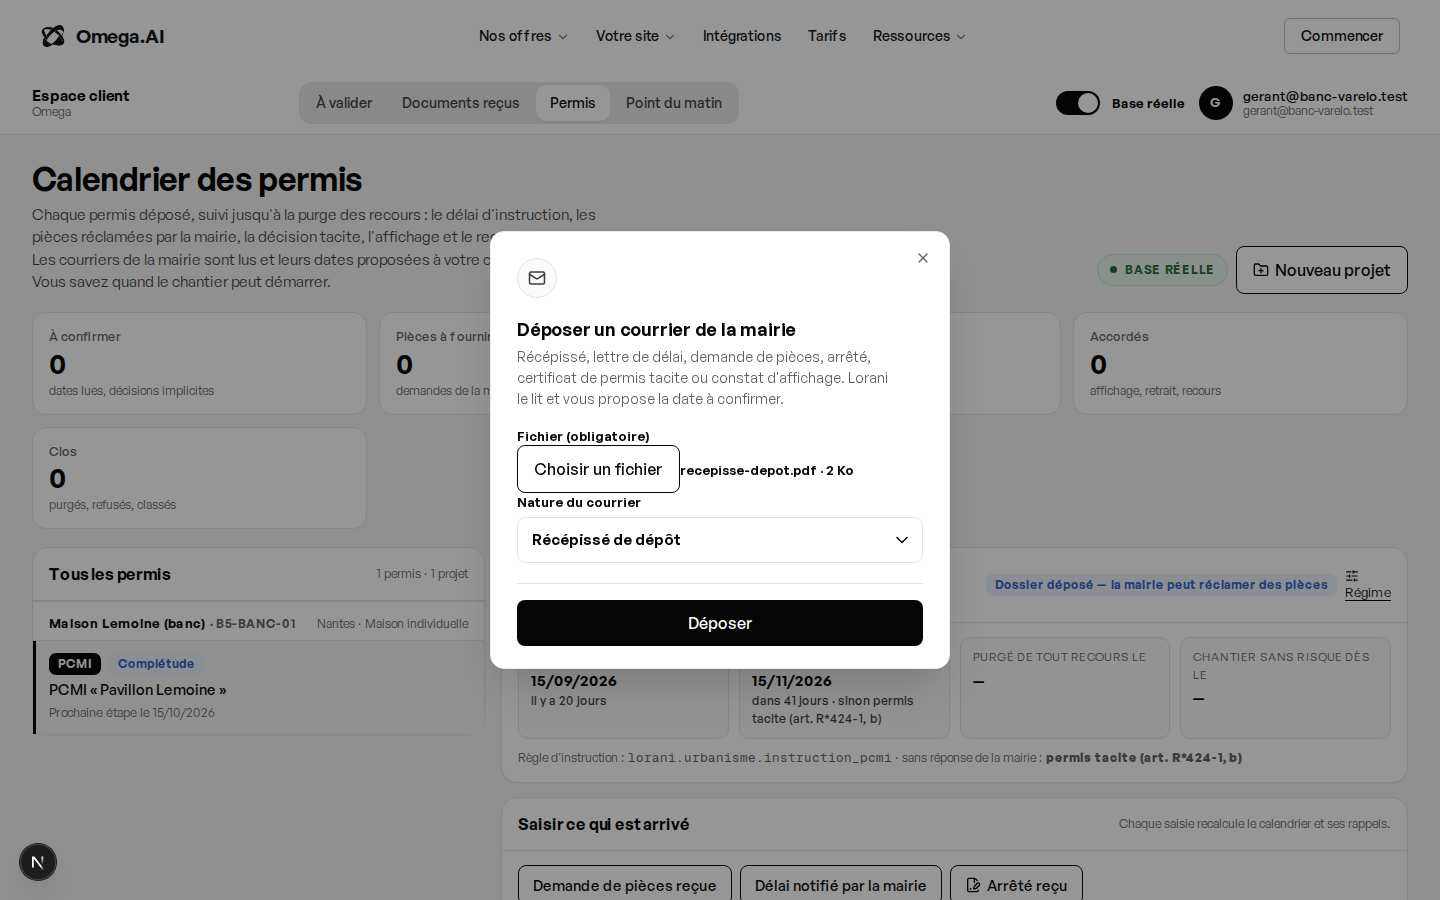
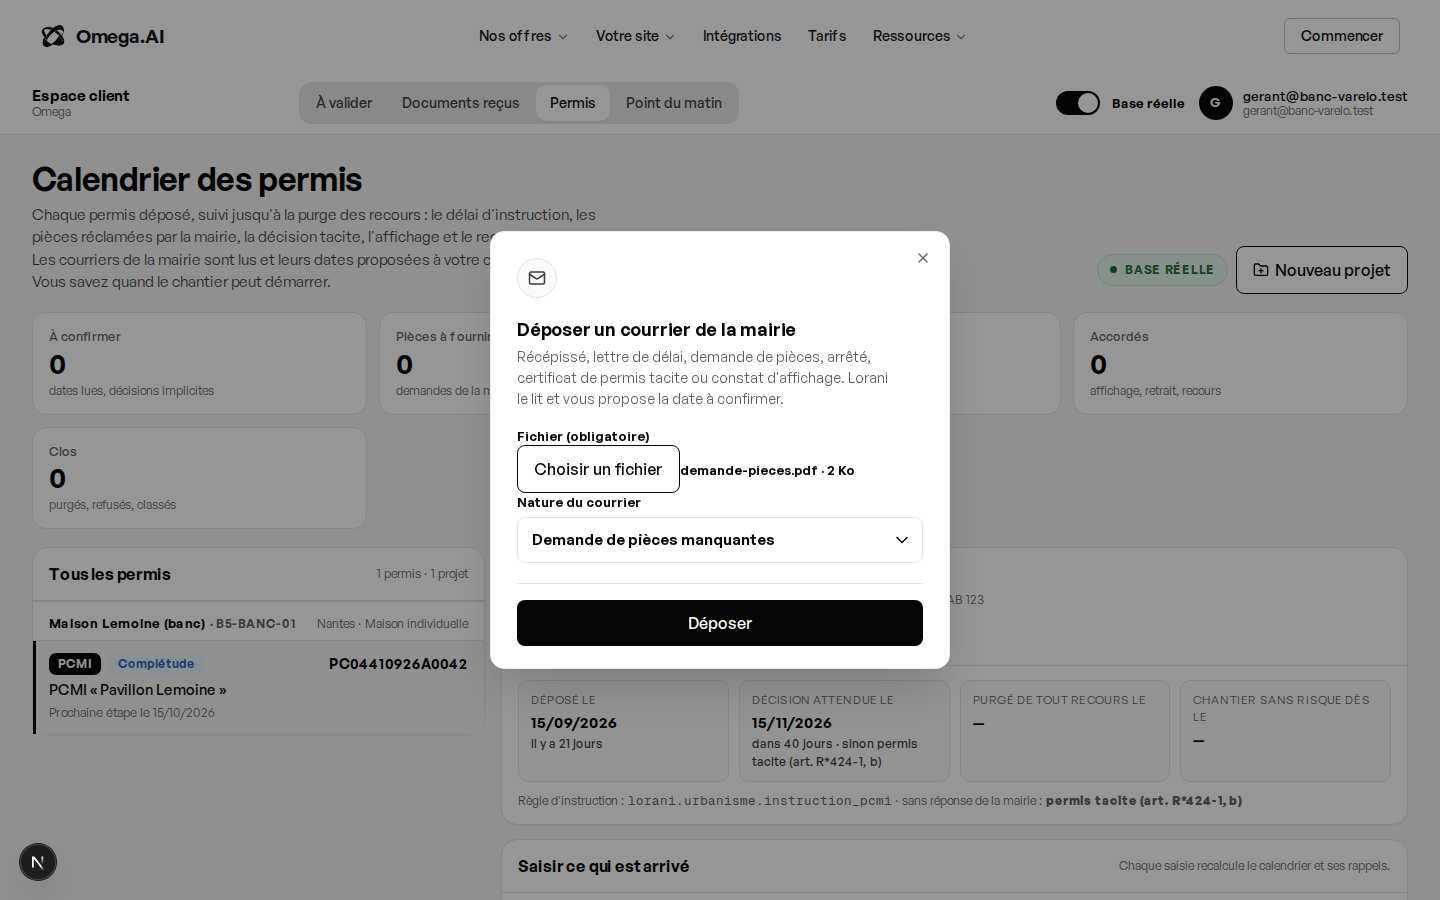
LORANI B5 : dépôt réel rejoué avec le lecteur v14 — récépissé lu et confirmé ; demande de pièces PCMI perdue par le socle → b5_05 (codes PCMI/DPMI), assertion au test, l'écran exige la liste des pièces
Claude-Session: https://claude.ai/code/session_018iNiXjY8eWmMjaGrXSGgma

diff --git a/components/espace/lorani/PermisVue.tsx b/components/espace/lorani/PermisVue.tsx
@@ -45,6 +45,9 @@ type Props = {
   relire: () => Promise<void>;
 };
 
+/* « PCMI 3, PC8 » ou « PCMI 3 PC 8 » → [PCMI3, PC8] : un espace suivi d'un chiffre reste dans le code */
+const decouperCodes = (brut: string) => brut.split(/[,;]+|\s+(?=[A-Za-z])/).map((c) => c.replace(/\s/g, "").toUpperCase()).filter(Boolean);
+
 type Quoi = "pieces_fournies" | "affichage" | "decision" | "delai" | "depot" | "demande_pieces";
 
 type Form =
@@ -161,7 +164,7 @@ export default function PermisVue({ permis: p, projet, dossier, source, peutEcri
     setErreur(null);
     setForm({ type: "confirmer", date: d });
   };
-  const confirmationComplete = form?.type === "confirmer" && NATURES_DATE_LUE[form.date.nature].champs.every((ch) => ch.type === "pieces" || ch.cle === "numero" || ch.cle === "date_notification_delai" || (valeurs[ch.cle] ?? "").trim() !== "") && !!permisVise;
+  const confirmationComplete = form?.type === "confirmer" && NATURES_DATE_LUE[form.date.nature].champs.every((ch) => ch.cle === "numero" || ch.cle === "date_notification_delai" || (valeurs[ch.cle] ?? "").trim() !== "") && !!permisVise;
 
   const soumettreConfirmation = async () => {
     if (form?.type !== "confirmer") return;
@@ -171,7 +174,7 @@ export default function PermisVue({ permis: p, projet, dossier, source, peutEcri
     for (const ch of NATURES_DATE_LUE[d.nature].champs) {
       const brut = (valeurs[ch.cle] ?? "").trim();
       let x: unknown;
-      if (ch.type === "pieces") x = brut ? brut.split(/[,;\s]+/).filter(Boolean).map((code) => ({ code: code.toUpperCase().replace(/\s/g, "") })) : [];
+      if (ch.type === "pieces") x = brut ? decouperCodes(brut).map((code) => ({ code })) : [];
       else if (ch.type === "entier") x = brut ? Number(brut) : null;
       else x = brut || null;
       if (JSON.stringify(x) !== JSON.stringify(d.proposition[ch.cle] ?? null)) corrige = true;
@@ -265,7 +268,7 @@ export default function PermisVue({ permis: p, projet, dossier, source, peutEcri
       message = "Dépôt saisi : la mairie a un mois pour réclamer des pièces.";
     } else if (q === "demande_pieces") {
       v.date_demande_pieces = date;
-      v.pieces_demandees = saisie.pieces.split(/[,;\s]+/).filter(Boolean).map((code) => ({ code: code.toUpperCase() }));
+      v.pieces_demandees = decouperCodes(saisie.pieces).map((code) => ({ code }));
       Object.assign(patch, { date_demande_pieces: date, pieces_demandees: v.pieces_demandees, etat: "pieces_demandees" as const });
       message = "Demande de pièces saisie : trois mois pour les adresser à la mairie.";
     }
@@ -597,7 +600,7 @@ export default function PermisVue({ permis: p, projet, dossier, source, peutEcri
                   </label>
                 ) : null}
                 {NATURES_DATE_LUE[form.date.nature].champs.map((ch) => (
-                  <label key={ch.cle} className="rv-libelle">{ch.libelle}{ch.type === "pieces" || ch.cle === "numero" || ch.cle === "date_notification_delai" ? null : <> <span className="esp-obligatoire">(obligatoire)</span></>}
+                  <label key={ch.cle} className="rv-libelle">{ch.libelle}{ch.cle === "numero" || ch.cle === "date_notification_delai" ? null : <> <span className="esp-obligatoire">(obligatoire)</span></>}
                     {ch.type === "decision" ? (
                       <select className="rv-champ" value={valeurs[ch.cle] ?? ""} onChange={(e) => setValeurs((v) => ({ ...v, [ch.cle]: e.target.value }))}>
                         <option value="favorable">{dp ? "Non-opposition" : "Accordé"}</option>

diff --git a/omega/NOTES-B5.md b/omega/NOTES-B5.md
@@ -202,3 +202,19 @@ Ouvert : le TAP du test à 5a4a2e6 (en cours chez le coordinateur) ; la fusion d
   demande de pièces PCMI 3 / PCMI 6 — nouvelles empreintes, l'ancien récépissé reste en `a_classer`) ;
   `courrier-reel.mjs <session.json> <courrier.pdf> [origine] [nature]`. **Bloqué** : le conteneur neuf n'a ni la clé
   publishable de la recette ni la session de `gerant@banc-varelo.test` ; demandées au coordinateur.
+- 06/10, 1 h 31–1 h 45 Z : **dépôt réel rejoué** avec le lecteur v14 (compte `gerant@banc-varelo.test`, Next local
+  pointé sur la recette, permis « Pavillon Lemoine »).
+  - `recepisse-depot-v2.pdf`, nature « Récépissé de dépôt » : pièce `Lue` en 35 s ; proposition au passage suivant
+    (214 s) : « Date de dépôt — Citation retrouvée — Date de dépôt : 15/09/2026, Numéro du dossier : PC04410926A0042 »,
+    citations « Dossier déposé le 15/09/2026 en mairie de Nantes. (page 1) » et « PC 044109 26 A0042 (page 1) ».
+    Confirmée par l'écran : le permis porte le numéro, plus rien à confirmer. **La chaîne réelle est complète.**
+  - `demande-pieces.pdf` (PCMI 3, PCMI 6, lettre du 01/10/2026) : `Lue` en 35 s, proposition à 280 s : « Date de la
+    demande : 01/10/2026 — **Pièces réclamées : aucune** », citation « PCMI 3 : plan en coupe… (page 1) ». Le lecteur
+    reconnaît le type et cite les pièces ; **le socle les jette** : `private.lorani_propositions` ne garde que
+    `^(PC|PA|PD|DP|CU)\s*\d…`, donc pas les codes PCMI / DPMI. Le contrôle du script (trop lâche, il lisait la citation)
+    a laissé passer et la demande a été confirmée **vide** sur le banc (permis en `pieces_demandees`, `pieces_demandees = []`).
+  - Corrections : **b5_05** (`omega/modules/lorani/migrations/b5_05_codes_pcmi.sql`, une ligne du filtre :
+    `(PCMI|DPMI|PC|PA|PD|DP|CU)`) ; une assertion de plus dans le test (étape 19, b5_05) ; l'écran exige la liste des
+    pièces pour confirmer une demande et ne coupe plus « PCMI 3 » en deux (`decouperCodes`) ; le script vérifie la liste
+    elle-même. tsc, eslint, build, recette aux cinq largeurs : verts.
+
